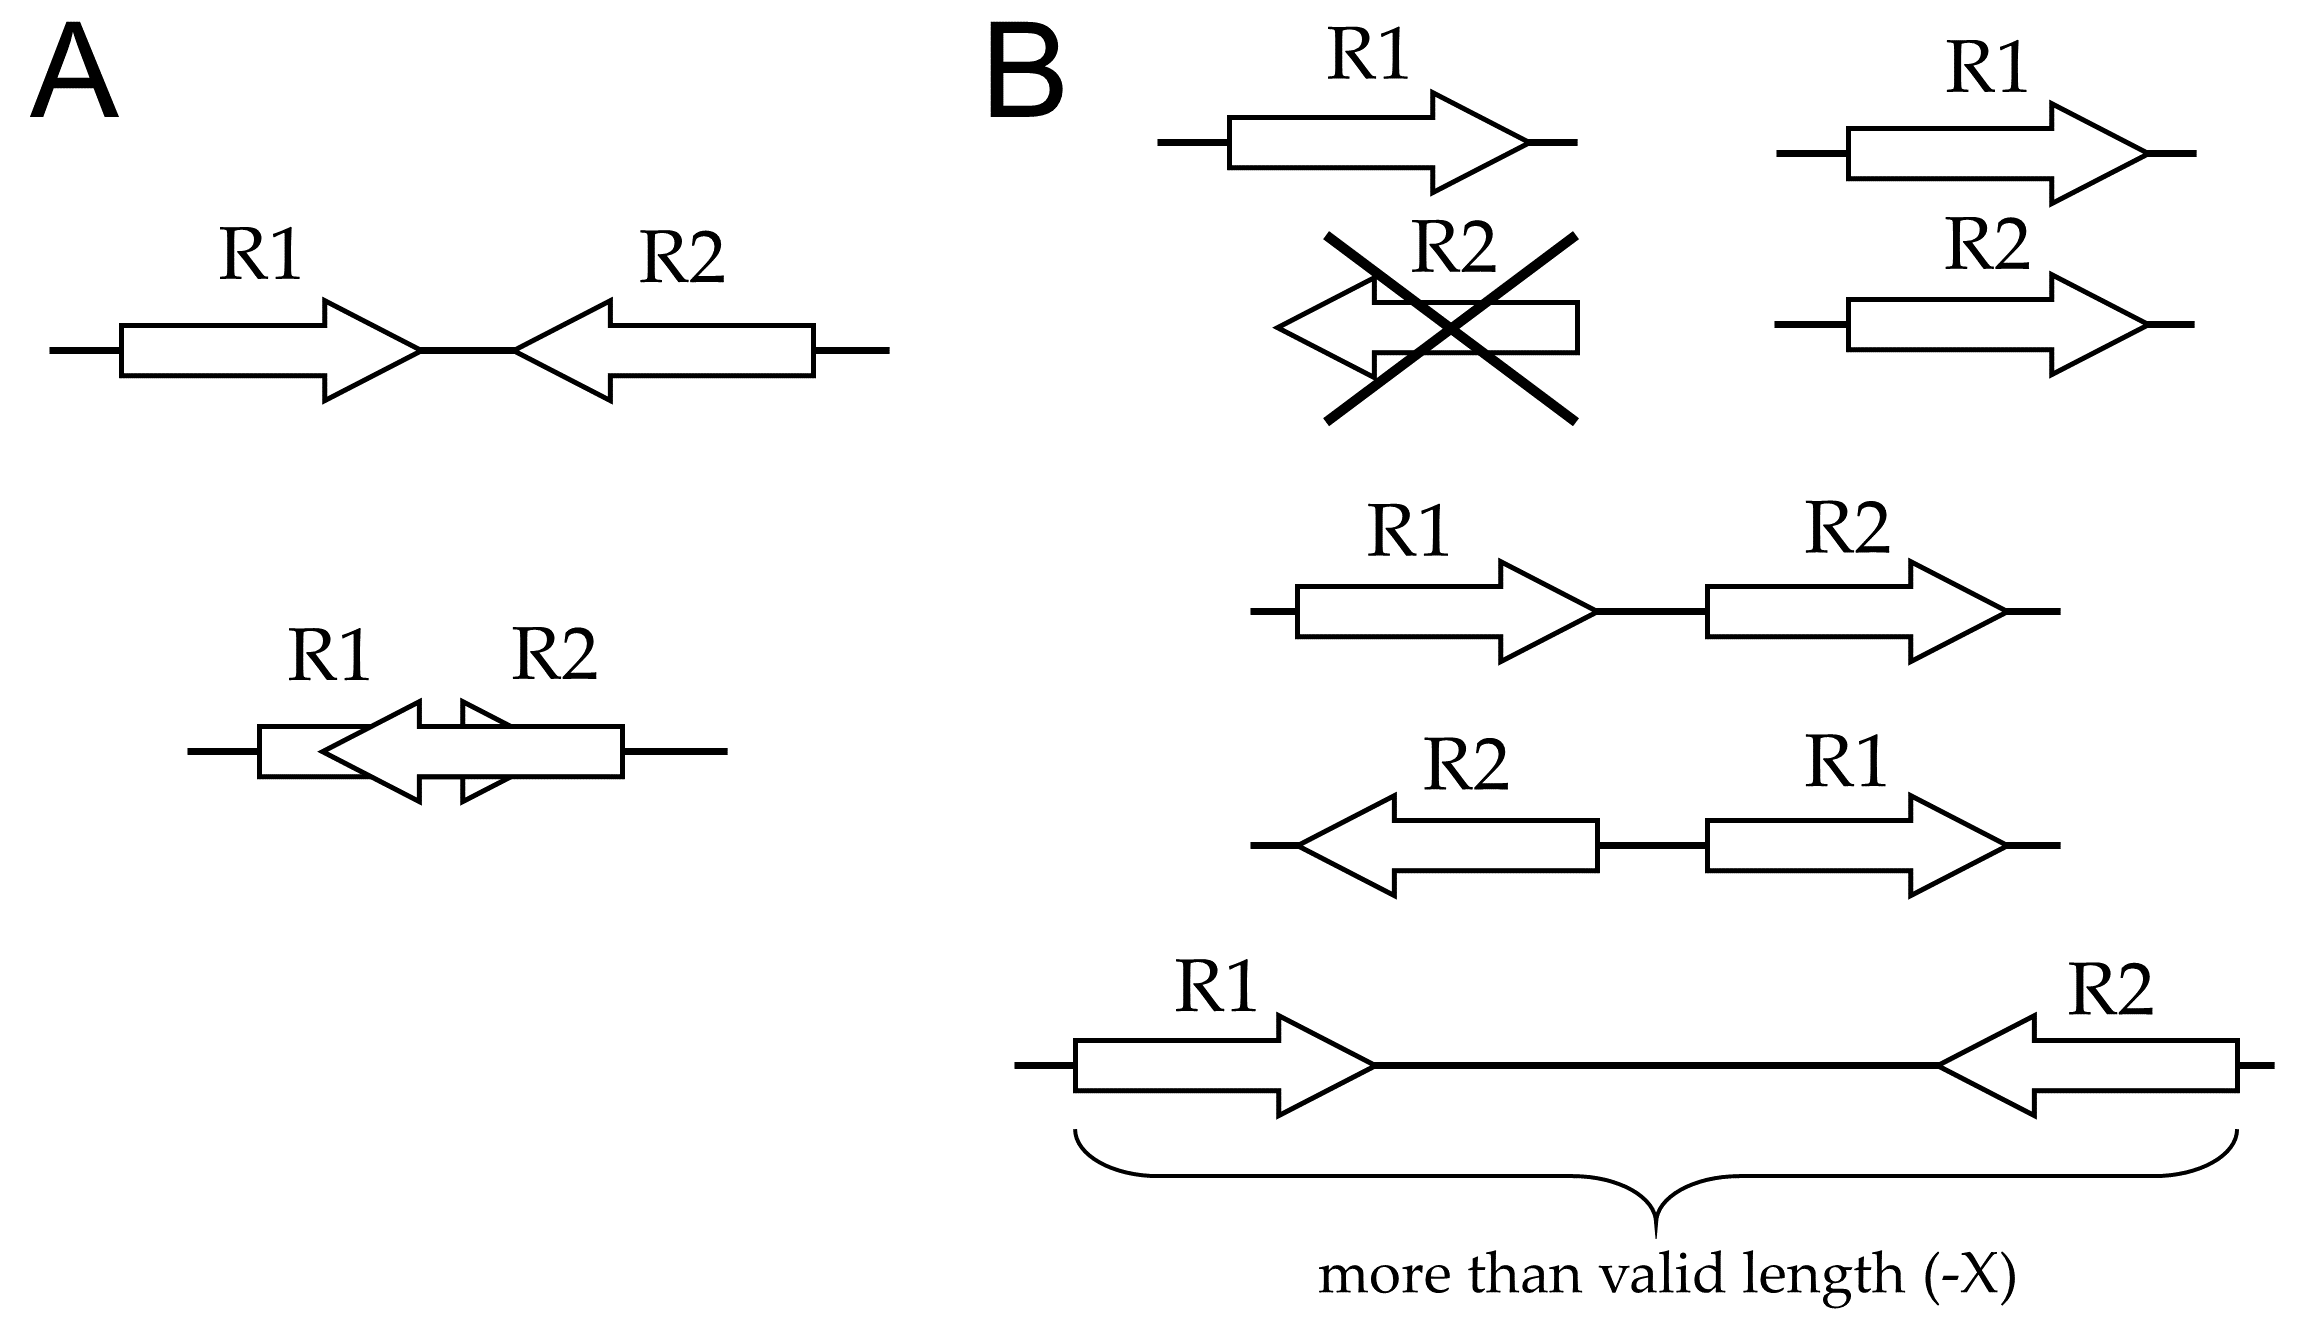
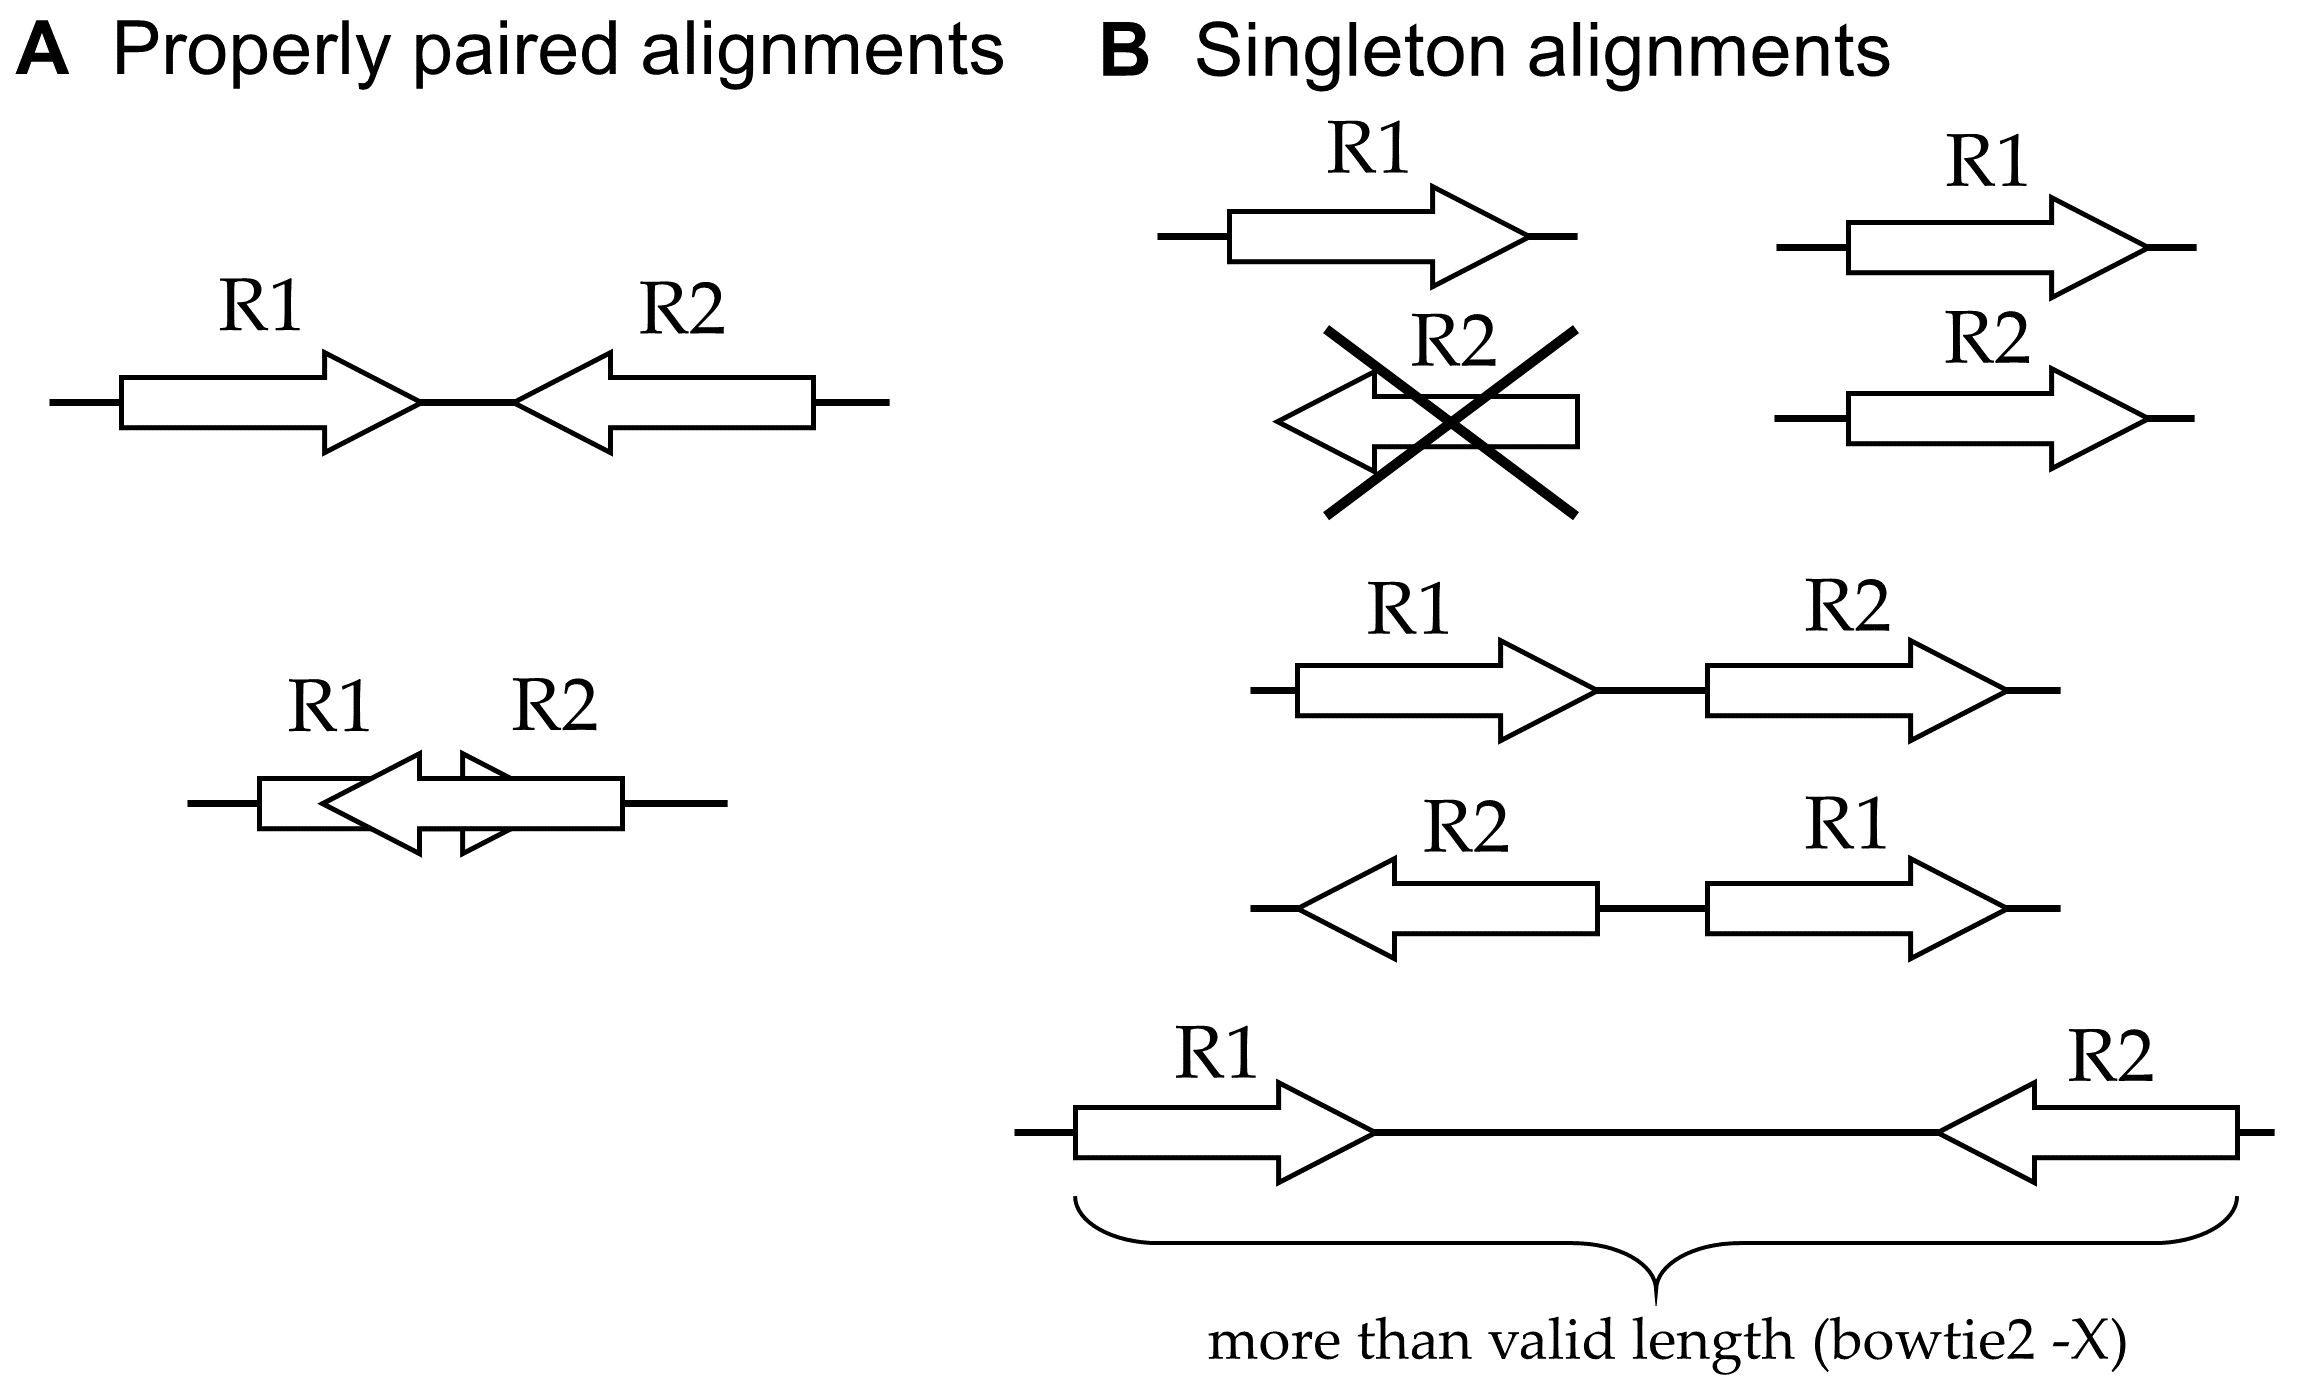
edit Figures 2 and 3

diff --git a/ATAC-seq.md b/ATAC-seq.md
@@ -1,20 +1,20 @@
-Title: ATAC-seq Guidelines
-Date: 2017-10-01
-Category: Tutorials
-Author: John M. Gaspar
-Tags: ATAC-seq
-Summary: This tutorial provides a workflow notes and recommendations for ATAC-seq analysis.
+Title: ATAC-seq Guidelines<br>
+Date: 2017-10-01<br>
+Category: Tutorials<br>
+Author: John M. Gaspar<br>
+Tags: ATAC-seq<br>
+Summary: This tutorial provides a workflow notes and recommendations for ATAC-seq analysis.<br>
 
 ## Table of Contents
-[ATAC-seq overview](#overview)
-[Experimental design](#design)
-[Compute access / Odyssey](#odyssey)
-[Sequence reads](#reads)
-[Quality control](#qc)
-[Alignment](#alignment)
-[Peak calling](#peak)
-[Next steps](#next)
-[References](#references)
+[ATAC-seq overview](#overview)<br>
+[Experimental design](#design)<br>
+[Compute access / Odyssey](#odyssey)<br>
+[Sequence reads](#reads)<br>
+[Quality control](#qc)<br>
+[Alignment](#alignment)<br>
+[Peak calling](#peak)<br>
+[Next steps](#next)<br>
+[References](#references)<br>
 
 
 ## ATAC-seq overview <a name="overview"></a>
@@ -208,7 +208,7 @@ samtools view -h <inBAM> | python /n/informatics_external/temp/stitch/removeChro
 
 PCR duplicates are exact copies of DNA fragments that arise during PCR.  Since they are artifacts of the library preparation procedure, they may interfere with the biological signal of interest.  Therefore, they should be removed as part of the analysis pipeline.
 
-One commonly used program for removing PCR duplicates is Picard's [MarkDuplicates](http://broadinstitute.github.io/picard/command-line-overview.html#MarkDuplicates)).  It is run as follows:
+One commonly used program for removing PCR duplicates is Picard's [MarkDuplicates](http://broadinstitute.github.io/picard/command-line-overview.html#MarkDuplicates).  It is run as follows:
 
     module load picard
     java -jar $PICARD_TOOLS_HOME/picard.jar MarkDuplicates I=<inBAM> O=<outBAM> M=dups.txt REMOVE_DUPLICATES=true
@@ -228,7 +228,7 @@ With paired-end sequencing, the types of alignments that are produced fall into 
 
 <figure>
   <img src="alignments.png" alt="Alignment types" width="700">
-  <figcaption><strong>Figure 3.</strong>  Paired-end alignments.  A: Reads that are properly paired align in opposite orientations on the same reference sequence (chromosome).  The reads may overlap to some extent (bottom).  B: A singleton read (R1) can be not properly paired for several reasons: if its mate is unaligned (upper left), aligns to a different chromosome (upper right), aligns in the incorrect orientation (middle cases), or aligns in the correct orientation but at an invalid distance (bottom).  In all cases except the upper left, the R2 read is also a singleton.</figcaption>
+  <figcaption><strong>Figure 3.</strong>  Paired-end alignments.  <strong>A:</strong> Reads that are properly paired align in opposite orientations on the same reference sequence (chromosome).  The reads may overlap to some extent (bottom).  <strong>B:</strong> A singleton read (R1) can be not properly paired for several reasons: if its mate (R2) is unaligned (upper left), aligns to a different chromosome (upper right), aligns in the incorrect orientation (middle cases), or aligns in the correct orientation but at an invalid distance (bottom).  In all cases except the upper left, the R2 read is also a singleton.</figcaption>
 </figure>
 <br>
 <br>
@@ -249,7 +249,7 @@ The output from SAMtoBED.py is a [BED file](https://genome.ucsc.edu/FAQ/FAQforma
 
 (Note that the BEDTools program [bamtobed](http://bedtools.readthedocs.io/en/latest/content/tools/bamtobed.html) program cannot be used here, since its output is in a nonstandard BED format that MACS2 cannot analyze.)
 
-In deciding among these options, it may help to consider the counts produced by Bowtie2, which indicate how many alignments fall into each category.  For example, if most of the reads were aligned in proper pairs, it may be sufficient to use option #2.  On the other hand, option #3 is preferred if a substantial fraction of the reads are singletons.
+In deciding among these analysis options, it may help to consider the counts produced by Bowtie2, which indicate how many alignments fall into each category.  For example, if most of the reads were aligned in proper pairs, it may be sufficient to use option #2.  On the other hand, option #3 is preferred if a substantial fraction of the reads are singletons.
 
 
 ### Other arguments
